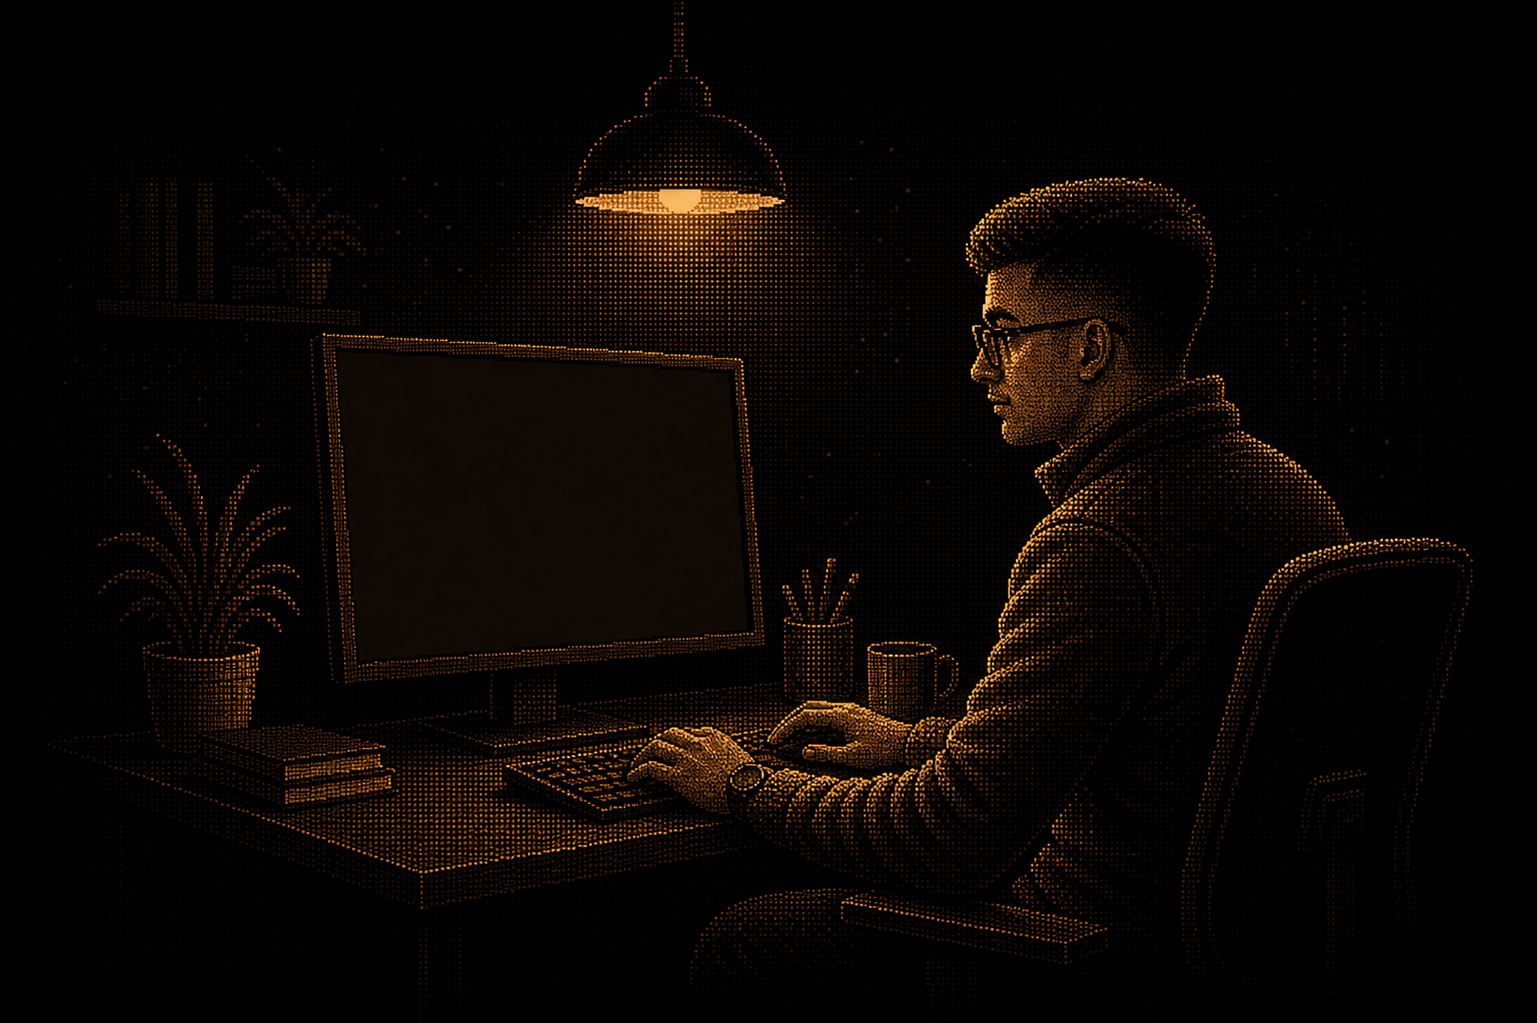
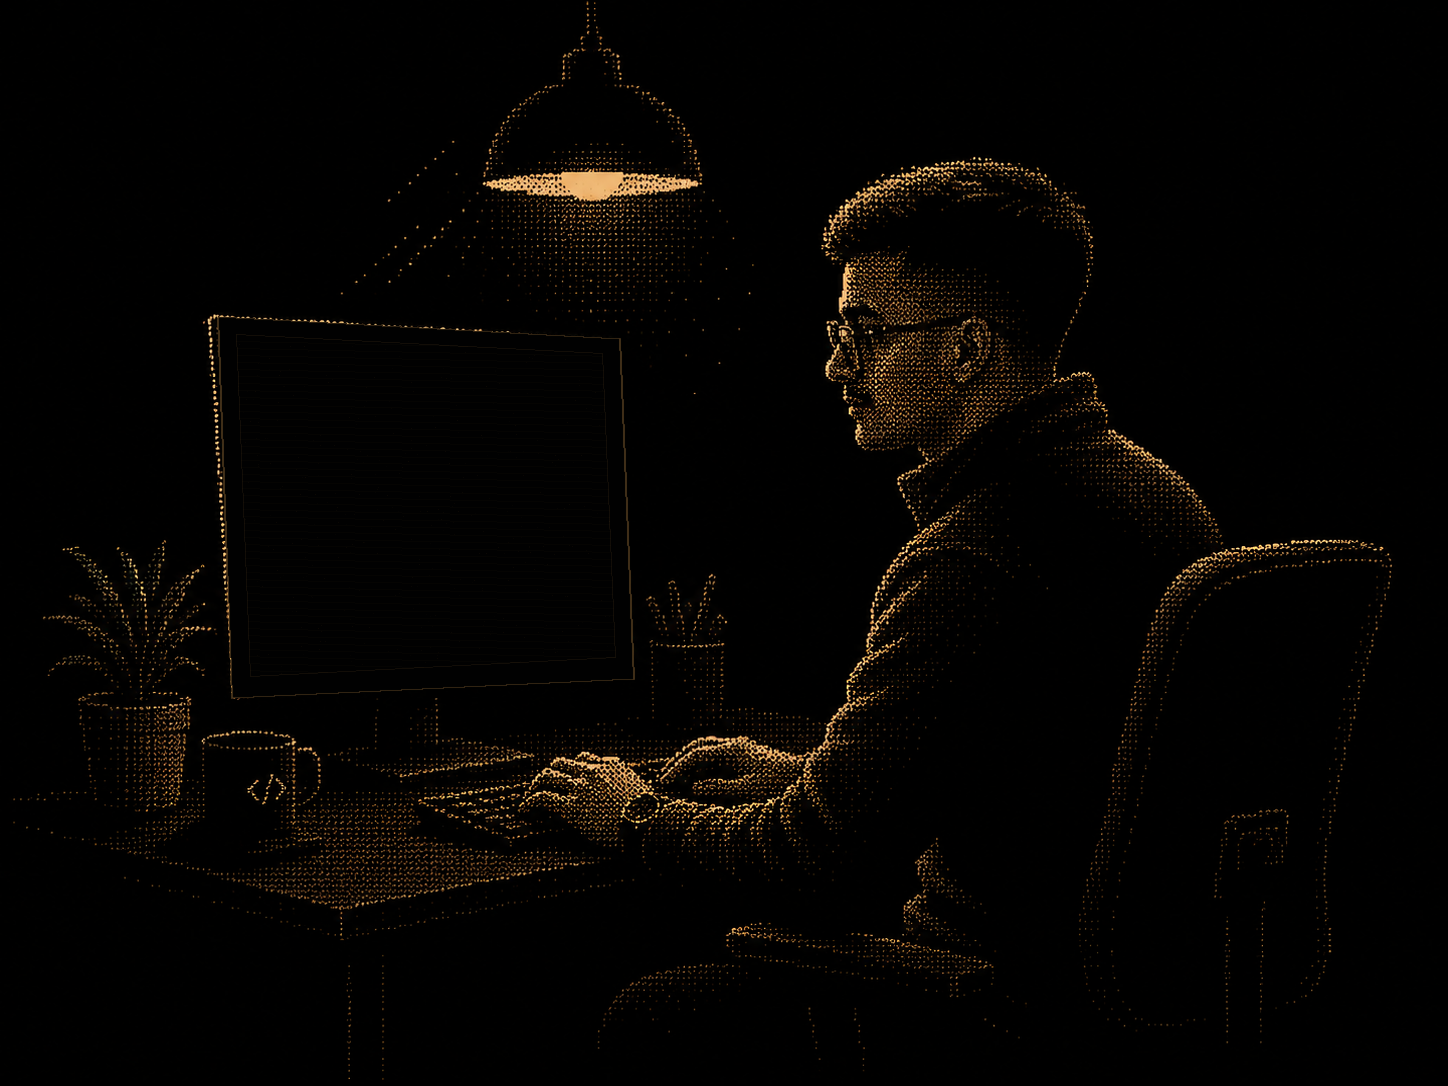
light mode image fixed 1.0

Changed region(s): [[0.0311, 0.0606, 0.9634, 0.9394], [0.8391, 0.7576, 0.8702, 0.7879]]

diff --git a/src/styles.css b/src/styles.css
@@ -74,7 +74,6 @@
   --contact-button-border: rgba(217, 144, 47, 0.38);
   --contact-button-hover: rgba(217, 144, 47, 0.10);
   --cursor-glow: oklch(0.78 0.14 70 / 0.45);
-  --hero-image-filter: none;
   --hero-image-mask: radial-gradient(ellipse 75% 75% at center, black 55%, transparent 100%);
   --hero-scene-filter: none;
   --hero-scene-outline: transparent;
@@ -178,7 +177,6 @@
   --contact-button-border: rgba(80, 52, 30, 0.13);
   --contact-button-hover: color-mix(in srgb, var(--accent) 10%, transparent);
   --cursor-glow: rgba(177, 106, 22, 0.26);
-  --hero-image-filter: none;
   --hero-image-mask: radial-gradient(ellipse 66% 68% at 50% 49%, black 34%, rgba(0, 0, 0, 0.72) 50%, rgba(0, 0, 0, 0.26) 67%, transparent 84%);
   --hero-scene-filter: drop-shadow(0 30px 80px rgba(60, 40, 20, 0.12));
   --hero-scene-outline: rgba(244, 232, 208, 0.22);
@@ -350,8 +348,7 @@
 }
 
 .hero-coder-scene img {
-  filter: var(--hero-image-filter);
-  transition: filter 220ms ease;
+  transition: opacity 220ms ease;
 }
 
 .hero-coder-overlays {

diff --git a/src/components/ThemeToggle.tsx b/src/components/ThemeToggle.tsx
@@ -11,7 +11,7 @@ export function ThemeToggle() {
       aria-label={`Switch to ${isLight ? "dark" : "light"} mode`}
       aria-pressed={isLight}
       title={`Switch to ${isLight ? "dark" : "light"} mode`}
-      onClick={() => setTheme((current) => (current === "dark" ? "light" : "dark"))}
+      onClick={() => setTheme(isLight ? "dark" : "light")}
       className="inline-flex h-6 w-6 items-center justify-center border border-border/70 bg-background/45 text-amber-soft transition-colors duration-300 hover:border-amber-dim hover:text-amber-glow focus-visible:outline-none focus-visible:ring-1 focus-visible:ring-ring"
     >
       {isLight ? <Moon className="h-3.5 w-3.5" /> : <Sun className="h-3.5 w-3.5" />}